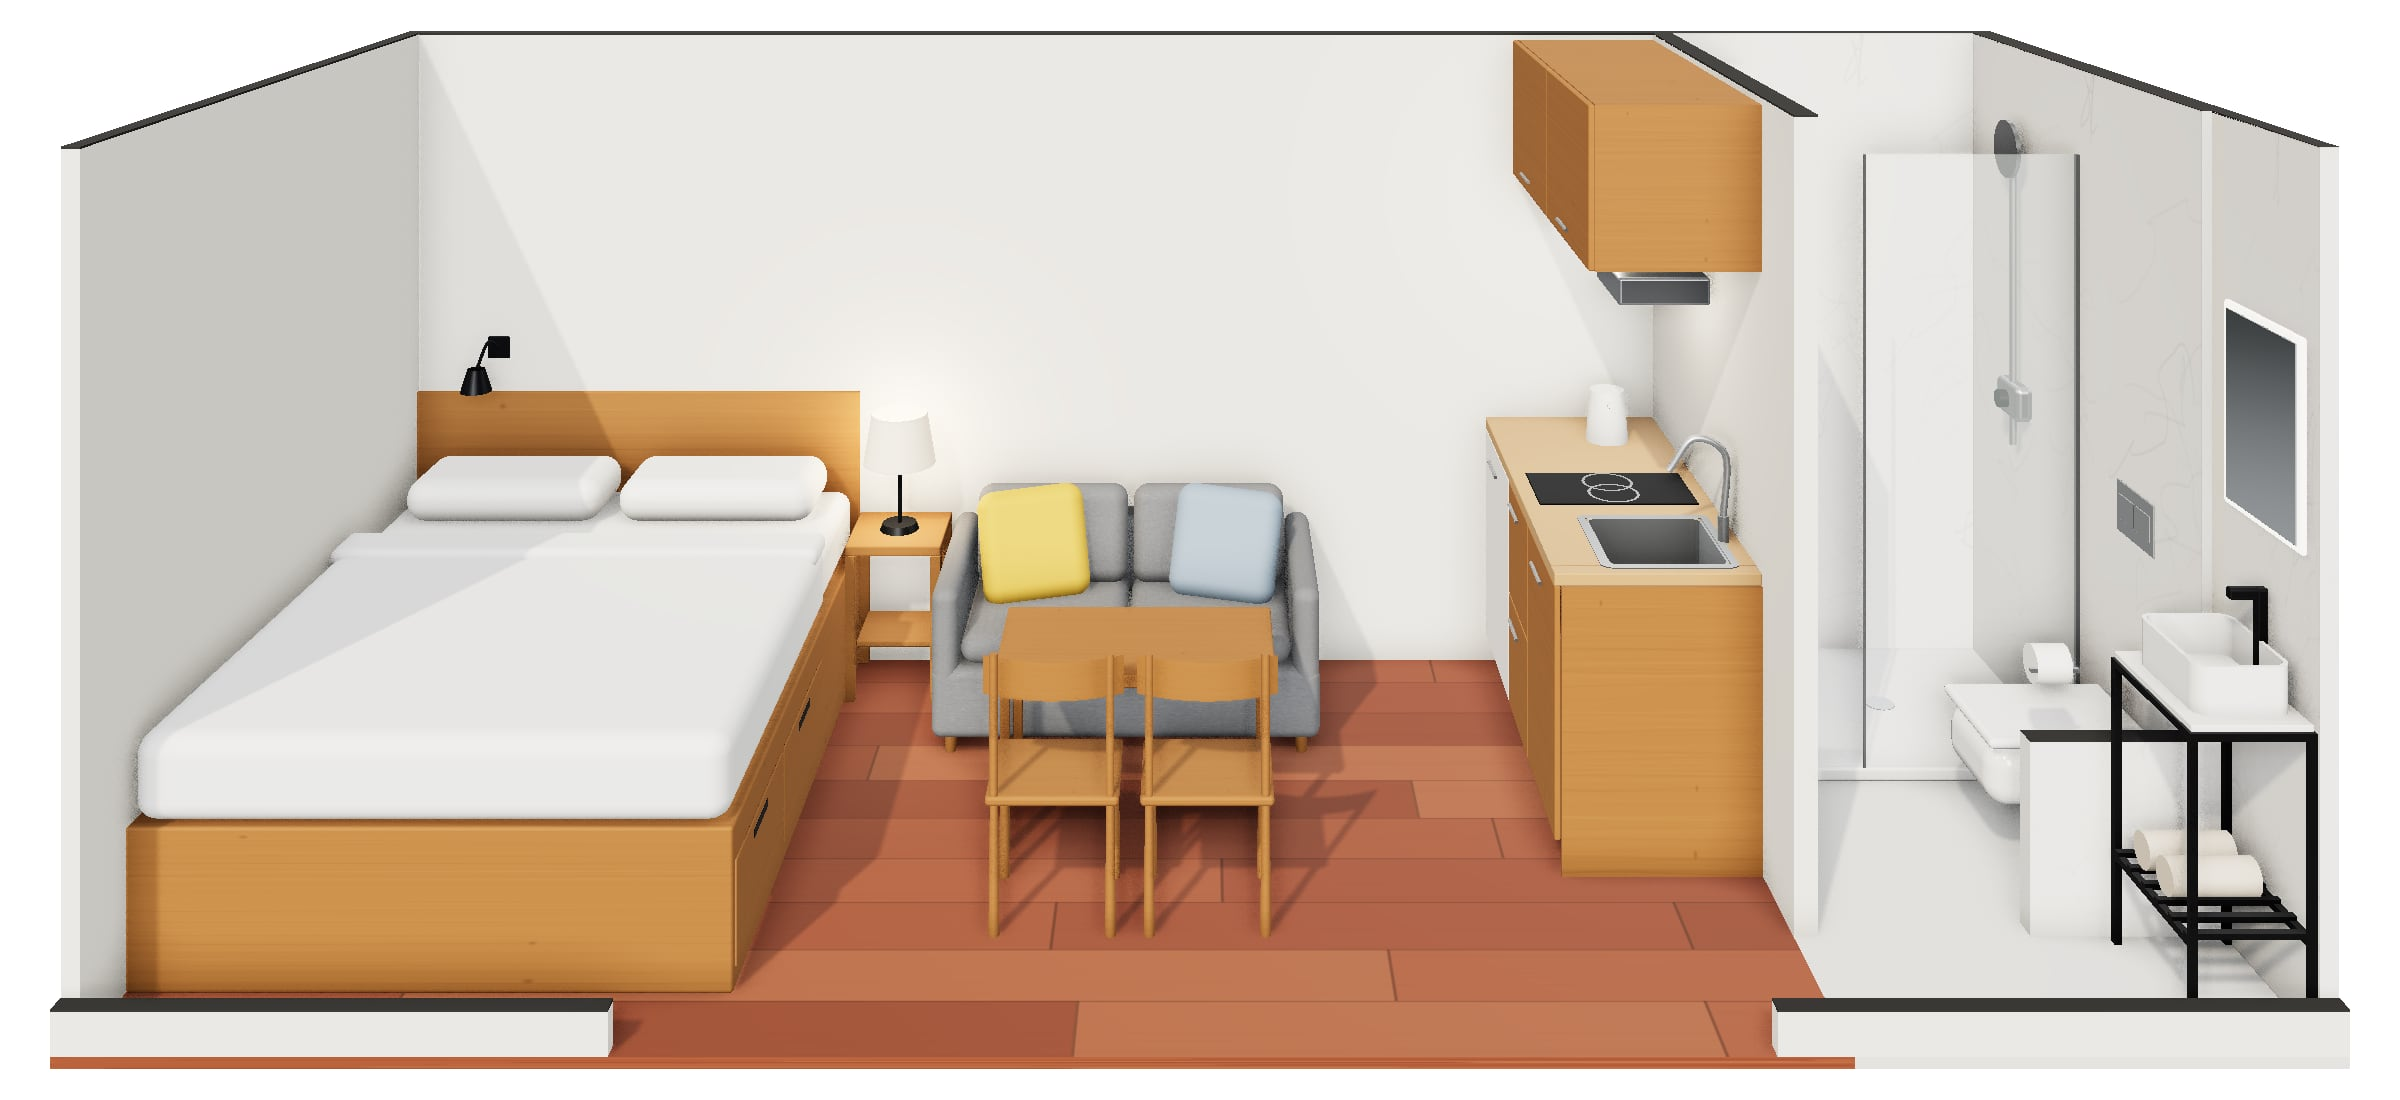
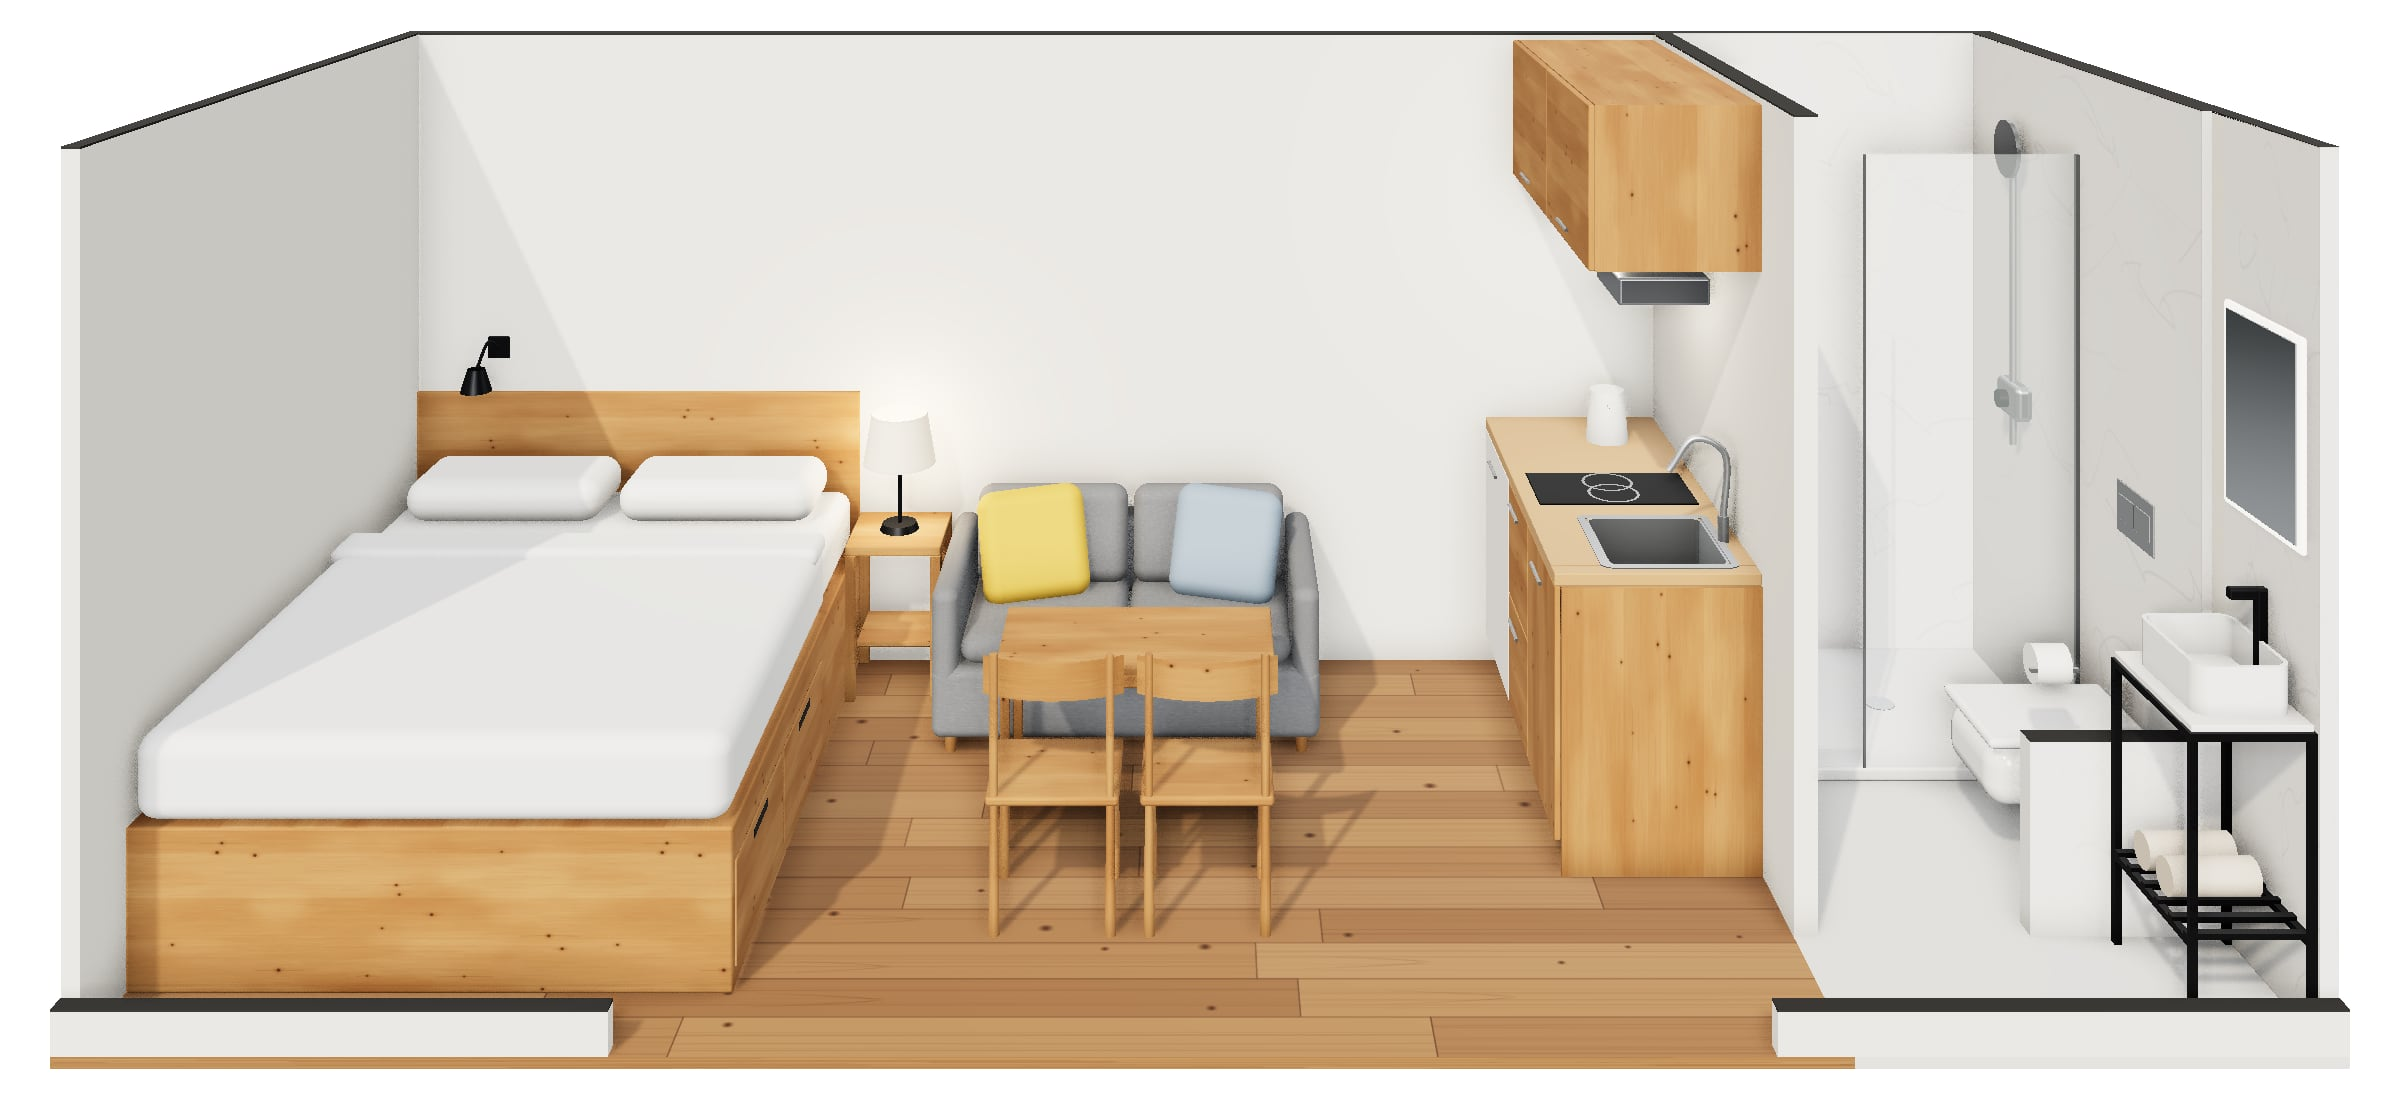
feat(studio): medium-oak pine furniture and rustic oak floor
The founder gave two references: a bed in a Medium Oak finish for the
furniture wood, and a rustic natural oak plank photo for the floor.

The pine texture is now golden amber under a soft waxed patina, with
fine brushed grain and small pin knots (few faint specks, after the
earlier "fewer holes" note). Wood now maps at true scale (1.2 x 0.6 m
per tile) with the grain along each piece's length, so a knot is the
same size on the bed side and on a chair leg, and each piece is cut
from a different part of the board.

The floor planks are random-length oak boards of varied tone, shaded
so the lit floor matches the photo (render 185,140,95 vs photo
186,139,98; furniture 213,165,102 vs bed 215,162,103).

Each procedural texture now draws its own random sequence, so editing
one never reshuffles another. Kit, price and design-doc wording follow:
a medium-oak stain over pine, an SPC floor in a rustic natural oak decor.

Claude-Session: https://claude.ai/code/session_01KRyNxX68L5feJKbJnBKRyV

diff --git a/scripts/studio/render/room.html b/scripts/studio/render/room.html
@@ -62,6 +62,7 @@ scene.background = LINE ? new THREE.Color("#ffffff") : new THREE.Color(12, 12, 1
 // ------------------------------------------------------------ procedural textures (real mode)
 function tex(draw, w = 512, h = 512) {
   const c = document.createElement("canvas"); c.width = w; c.height = h
+  seed = 7 // each texture draws its own fresh sequence, so editing one never reshuffles another
   draw(c.getContext("2d"), w, h)
   const t = new THREE.CanvasTexture(c)
   t.colorSpace = THREE.SRGBColorSpace
@@ -108,43 +109,101 @@ const T = LINE ? {} : {
       g.stroke()
     }
   }),
-  // pine in a darker honey tone: calm, faint grain and only a few soft knots (the founder's
-  // reference wood, ~/Downloads/IMG_3235.jpg, toned down)
+  // pine under a medium-oak finish, after the founder's bed reference (~/farm/ikea/coleridge-bed-frame-
+  // with-footboard-product-medium-oak-2.jpg.webp): golden amber, a soft waxed patina, fine brushed grain,
+  // small pin knots. One tile is 1.2 x 0.6 m of board with the grain along u (see woodUV); a mark that
+  // crosses an edge is drawn again on the far side, so the tile repeats without a seam
   pine: tex((g, w, h) => {
-    g.fillStyle = "#a06a34"; g.fillRect(0, 0, w, h)
-    for (let i = 0; i < 70; i++) {
-      const y = rnd() * h, dark = rnd() > 0.5
-      g.strokeStyle = dark ? `rgba(110,68,28,${0.04 + rnd() * 0.07})` : `rgba(200,150,90,${0.04 + rnd() * 0.06})`
-      g.lineWidth = 1 + rnd() * 3
-      g.beginPath(); g.moveTo(0, y)
-      g.bezierCurveTo(w * 0.33, y + (rnd() - 0.5) * 18, w * 0.66, y + (rnd() - 0.5) * 18, w, y + (rnd() - 0.5) * 8)
-      g.stroke()
+    const wrap = (x, y, rx, ry, f) => {
+      for (const dx of [-w, 0, w]) for (const dy of [-h, 0, h]) {
+        if (x + dx + rx < 0 || x + dx - rx > w || y + dy + ry < 0 || y + dy - ry > h) continue
+        f(x + dx, y + dy)
+      }
     }
-    for (let k = 0; k < 3; k++) {
-      const x = rnd() * w, y = rnd() * h, rx = 5 + rnd() * 6
-      const grd = g.createRadialGradient(x, y, 0, x, y, rx * 1.4)
-      grd.addColorStop(0, "rgba(90,54,22,0.35)"); grd.addColorStop(1, "rgba(90,54,22,0)")
-      g.fillStyle = grd; g.beginPath(); g.ellipse(x, y, rx * 1.4, rx * 0.8, 0, 0, Math.PI * 2); g.fill()
+    g.fillStyle = "#ae7a48"; g.fillRect(0, 0, w, h)
+    const staves = 5, sh = h / staves // the boards of an edge-glued panel, each a shade apart
+    for (let s = 0; s < staves; s++) {
+      g.fillStyle = rnd() > 0.5 ? `rgba(232,186,122,${0.05 + rnd() * 0.1})` : `rgba(138,84,38,${0.04 + rnd() * 0.08})`
+      g.fillRect(0, s * sh, w, sh)
+    }
+    g.filter = "blur(12px)" // waxed patina: soft clouds drawn out along the grain
+    for (let i = 0; i < 70; i++) {
+      const x = rnd() * w, y = rnd() * h, rx = 50 + rnd() * 170, ry = 8 + rnd() * 24
+      g.fillStyle = rnd() > 0.45 ? `rgba(146,88,38,${0.07 + rnd() * 0.12})` : `rgba(238,196,132,${0.07 + rnd() * 0.12})`
+      wrap(x, y, rx + 30, ry + 30, (X, Y) => { g.beginPath(); g.ellipse(X, Y, rx, ry, 0, 0, Math.PI * 2); g.fill() })
+    }
+    g.filter = "none"
+    for (let i = 0; i < 2600; i++) { // fine brushed fibres
+      const x = rnd() * w, y = rnd() * h, len = 20 + rnd() * 110, dy = (rnd() - 0.5) * 1.5
+      g.strokeStyle = rnd() > 0.35 ? `rgba(116,70,30,${0.04 + rnd() * 0.08})` : `rgba(244,206,148,${0.04 + rnd() * 0.07})`
+      g.lineWidth = 0.6 + rnd() * 0.7
+      wrap(x + len / 2, y, len / 2 + 2, 3, (X, Y) => {
+        g.beginPath(); g.moveTo(X - len / 2, Y); g.lineTo(X + len / 2, Y + dy); g.stroke()
+      })
+    }
+    for (let i = 0; i < 22; i++) { // long grain lines, level at both ends so they meet across the seam
+      const y = rnd() * h, a = (rnd() - 0.5) * 14, b = (rnd() - 0.5) * 14
+      g.strokeStyle = `rgba(126,76,32,${0.06 + rnd() * 0.1})`; g.lineWidth = 0.8 + rnd() * 1.4
+      wrap(w / 2, y, w / 2, 12, (X, Y) => {
+        g.beginPath(); g.moveTo(X - w / 2, Y); g.bezierCurveTo(X - w / 6, Y + a, X + w / 6, Y + b, X + w / 2, Y); g.stroke()
+      })
+    }
+    for (let k = 0; k < 16; k++) { // pin knots: an amber halo, sometimes a short spike along the grain, a dark core
+      const x = rnd() * w, y = rnd() * h, r = 1.6 + rnd() * 2.4, spike = rnd() > 0.55 ? 20 + rnd() * 50 : 0
+      wrap(x, y, Math.max(r * 5, spike) + 2, r * 3 + 2, (X, Y) => {
+        g.save(); g.translate(X, Y); g.scale(1, 0.58)
+        const halo = g.createRadialGradient(0, 0, 0, 0, 0, r * 4.5)
+        halo.addColorStop(0, "rgba(120,70,28,0.45)"); halo.addColorStop(1, "rgba(120,70,28,0)")
+        g.fillStyle = halo; g.beginPath(); g.arc(0, 0, r * 4.5, 0, Math.PI * 2); g.fill()
+        g.restore()
+        if (spike) {
+          g.strokeStyle = "rgba(92,52,20,0.32)"; g.lineWidth = 1.2
+          g.beginPath(); g.moveTo(X - spike, Y + 1); g.quadraticCurveTo(X, Y - 1, X + spike, Y + 1); g.stroke()
+        }
+        g.fillStyle = "rgba(68,36,14,0.9)"; g.beginPath(); g.ellipse(X, Y, r * 1.2, r, 0, 0, Math.PI * 2); g.fill()
+      })
+    }
+    for (let i = 0; i < 50; i++) { // a few distress specks, kept faint (the founder asked for fewer holes)
+      g.fillStyle = `rgba(90,52,22,${0.1 + rnd() * 0.15})`; g.fillRect(rnd() * w, rnd() * h, 1 + rnd() * 1.5, 1)
     }
   }, 1024, 512),
-  // SPC floor planks
+  // rustic natural oak planks after the founder's floor reference (~/farm/ikea/images.jpeg): warm honey-tan
+  // boards of varied tone and random length, fine joints, long grain with arches, a few small knots
   planks: tex((g, w, h) => {
-    const tones = ["#8c4b30", "#7f4229", "#975739", "#86462d", "#914f33"] // natural red hardwood
-    const rows = 10, rh = h / rows
+    const tones = ["#b98b5b", "#c39663", "#a97c4f", "#bd9264", "#ae8255", "#c79b6a", "#b38556"]
+    const rows = 14, rh = h / rows
     for (let r = 0; r < rows; r++) {
-      let x = -((r * 173) % 400)
+      let x = -((r * 211) % 700)
       while (x < w) {
-        const len = 360 + ((r * 97 + Math.abs(x)) % 240)
-        g.fillStyle = tones[(r * 7 + Math.abs(x)) % tones.length]; g.fillRect(x, r * rh, len, rh)
-        for (let k = 0; k < 6; k++) {
-          g.fillStyle = "rgba(90,60,30,0.06)"; g.fillRect(x, r * rh + rnd() * rh, len, 1)
+        const len = 520 + Math.floor(rnd() * 520), y0 = r * rh
+        g.fillStyle = tones[Math.floor(rnd() * tones.length)]; g.fillRect(x, y0, len, rh)
+        for (let i = 0; i < 9; i++) { // long grain
+          const y = y0 + rnd() * rh
+          g.strokeStyle = `rgba(110,72,38,${0.08 + rnd() * 0.14})`; g.lineWidth = 0.7 + rnd() * 1.4
+          g.beginPath(); g.moveTo(x, y)
+          g.bezierCurveTo(x + len * 0.3, y + (rnd() - 0.5) * 6, x + len * 0.7, y + (rnd() - 0.5) * 6, x + len, y + (rnd() - 0.5) * 4)
+          g.stroke()
         }
-        g.fillStyle = "rgba(60,40,20,0.45)"; g.fillRect(x, r * rh, 2, rh)
+        if (rnd() > 0.35) { // grain arches
+          const cx = x + len * (0.25 + rnd() * 0.5), cy = y0 + rh * (0.3 + rnd() * 0.4)
+          for (let k = 1; k <= 4; k++) {
+            g.strokeStyle = `rgba(104,66,34,${0.10 + rnd() * 0.12})`; g.lineWidth = 0.9
+            g.beginPath(); g.moveTo(cx - 40 * k, cy - 3 * k)
+            g.quadraticCurveTo(cx + 30 * k, cy, cx - 40 * k, cy + 3 * k + 2); g.stroke()
+          }
+        }
+        for (let k = 0; k < (rnd() > 0.6 ? 2 : rnd() > 0.5 ? 1 : 0); k++) { // small knots
+          const kx = x + 30 + rnd() * (len - 60), ky = y0 + 6 + rnd() * (rh - 12), kr = 2 + rnd() * 3.5
+          const grd = g.createRadialGradient(kx, ky, 0, kx, ky, kr * 2.4)
+          grd.addColorStop(0, "rgba(58,34,16,0.95)"); grd.addColorStop(0.45, "rgba(90,56,26,0.55)"); grd.addColorStop(1, "rgba(120,80,40,0)")
+          g.fillStyle = grd; g.beginPath(); g.ellipse(kx, ky, kr * 2.4, kr * 1.4, 0, 0, Math.PI * 2); g.fill()
+        }
+        g.fillStyle = "rgba(70,44,22,0.55)"; g.fillRect(x, y0, 2, rh) // end joint
         x += len
       }
-      g.fillStyle = "rgba(60,40,20,0.4)"; g.fillRect(0, r * rh, w, 2)
+      g.fillStyle = "rgba(70,44,22,0.5)"; g.fillRect(0, r * rh, w, 2) // long joint
     }
-  }, 1024, 1024),
+  }, 2048, 1024),
 }
 
 // ------------------------------------------------------------ materials
@@ -160,7 +219,7 @@ function mat(name) {
     const std = (o) => new THREE.MeshStandardMaterial(o)
     x = {
       wall: () => std({ color: "#f0ece3", roughness: 0.88 }), // off-white painted linings
-      pine: () => std({ map: T.pine, roughness: 0.62 }), // golden knotty pine joinery, matte
+      pine: () => std({ map: T.pine, roughness: 0.62 }), // pine joinery in medium oak, satin
       white: () => std({ color: "#f3f2ee", roughness: 0.55 }),
       ply: () => std({ map: T.ply, roughness: 0.6 }),
       worktop: () => std({ color: "#c4996a", roughness: 0.45 }),
@@ -172,7 +231,7 @@ function mat(name) {
       blue: () => std({ color: "#8ea2b4", roughness: 0.9 }),
       marble: () => std({ map: T.marble, roughness: 0.22 }),
       vinyl: () => std({ color: "#dcdcda", roughness: 0.6 }),
-      floor: () => std({ map: T.planks, roughness: 0.55 }),
+      floor: () => std({ map: T.planks, color: "#d1c8c1", roughness: 0.55 }), // a slight warm shade so the lit floor matches the oak reference
       ceramic: () => new THREE.MeshPhysicalMaterial({ color: "#fbfbfa", roughness: 0.12, clearcoat: 0.7, clearcoatRoughness: 0.1 }),
       black: () => std({ color: "#1f2023", roughness: 0.45, metalness: 0.5 }),
       hob: () => std({ color: "#0f1012", roughness: 0.12, metalness: 0.2 }),
@@ -197,7 +256,27 @@ function mat(name) {
 
 // ------------------------------------------------------------ geometry helpers (metres)
 const meshes = []
+// wood at true scale: each face projects the board texture from its own plane, grain along the piece's
+// longest side (on an end face, along the longer edge), each piece cut from a different part of the board
+const BOARD = [1.2, 0.6] // metres one pine tile covers along and across the grain
+function woodUV(geo) {
+  geo.computeBoundingBox()
+  const size = geo.boundingBox.getSize(new THREE.Vector3()).toArray()
+  const long = size.indexOf(Math.max(...size))
+  const pos = geo.attributes.position, nrm = geo.attributes.normal, uv = geo.attributes.uv
+  const du = (meshes.length * 0.618034) % 1, dv = (meshes.length * 0.414214) % 1
+  for (let i = 0; i < pos.count; i++) {
+    const n = [Math.abs(nrm.getX(i)), Math.abs(nrm.getY(i)), Math.abs(nrm.getZ(i))]
+    const plane = [0, 1, 2].filter((a) => a !== n.indexOf(Math.max(...n)))
+    const ua = plane.includes(long) ? long : size[plane[0]] >= size[plane[1]] ? plane[0] : plane[1]
+    const va = plane.find((a) => a !== ua)
+    const p = [pos.getX(i), pos.getY(i), pos.getZ(i)]
+    uv.setXY(i, du + p[ua] / BOARD[0], dv + p[va] / BOARD[1])
+  }
+  uv.needsUpdate = true
+}
 function add(geo, name, opts = {}) {
+  if (!LINE && name === "pine") woodUV(geo)
   const mesh = new THREE.Mesh(geo, mat(name))
   mesh.castShadow = !LINE && name !== "glass" && name !== "floor" && name !== "vinyl" && !opts.noShadow
   mesh.receiveShadow = !LINE

diff --git a/scripts/studio/kits.py b/scripts/studio/kits.py
@@ -145,7 +145,7 @@ def k1_lining(lo: Layout) -> Kit:
                  "pufoam"))
     k.buy(Bought("K1-EPOXY", "Primer + 100%-solids epoxy floor seal", "K1", "finishes", "painting", 14, "m2",
                  "epoxy"))
-    k.buy(Bought("K1-SPC", "SPC flooring 5 mm, natural red-wood decor, + underlay (living area)", "K1", "finishes", "carpentry",
+    k.buy(Bought("K1-SPC", "SPC flooring 5 mm, rustic natural oak decor, + underlay (living area)", "K1", "finishes", "carpentry",
                  round(lo.part_x0 * lo.W / 1e6 * 1.08, 1), "m2", "spc", Box(0, 0, -5, lo.part_x0, lo.W, 0),
                  step="S05", layer="envelope", color="floor"))
     k.buy(Bought("K1-RUST", "Rust converter + zinc primer for steel", "K1", "finishes", "painting", 4, "L", "primer"))
@@ -457,7 +457,7 @@ def k7_trims(lo: Layout) -> Kit:
                Box(X - 530, 0, 2300, X - 518, run, lo.H), step="S18"))
     k.add(Part("K7-20", "Galley end panel (scribed to the floor on site)", "K7", "PLY12",
                Box(X - GALLEY_D, run, 0, X, run + 12, 900 - 38), step="S18"))
-    k.buy(Bought("K7-STAIN", "Joinery finish: honey-tone stain + clear matte PU varnish over pine (all furniture)", "K7",
+    k.buy(Bought("K7-STAIN", "Joinery finish: medium-oak stain + clear matte PU varnish over pine (all furniture)", "K7",
                  "finishes", "painting", 6, "L", "stain", step="S18"))
     k.steps.append(Step("S18", "K7", "Scribe and pin the trims; caulk and paint", [p.id for p in k.parts],
                         {"F": 60}, 1))

diff --git a/scripts/studio/prices.py b/scripts/studio/prices.py
@@ -64,7 +64,7 @@ PRICES: dict[str, tuple[float, str, str, str]] = {
     "sofa": (450_000, "A", "AS-21", "compact two-seat sofa, washable covers"),
     "wcframe": (220_000, "A", "AS-21", "slim concealed cistern frame + dual-flush plate"),
     "lamp": (35_000, "A", "AS-21", "table lamp with linen shade, LED bulb"),
-    "stain": (14_000, "A", "AS-21", "honey-tone stain + clear matte PU varnish for pine, per L"),
+    "stain": (14_000, "A", "AS-21", "medium-oak stain + clear matte PU varnish for pine, per L"),
     "stairframe": (450_000, "A", "AS-21", "stringers, handrails, footings"),
 }
 

diff --git a/study/studio/studio-design.md b/study/studio/studio-design.md
@@ -49,9 +49,9 @@ The 3D drawing and the realistic image on the studio page are rendered from the 
 | Surface | Finish | Why |
 |---|---|---|
 | Walls and ceiling (living) | 12 mm ply, vapour-retarding primer and off-white paint | Light and calm; the primer seals the insulation from room air; repaintable |
-| Floor (living) | Epoxy seal over the treated container floor, then 5 mm SPC in a natural red-wood decor | The original floor is insecticide-treated; never sand it [V STU-07] |
+| Floor (living) | Epoxy seal over the treated container floor, then 5 mm SPC in a rustic natural oak decor (narrow random-length planks) | The original floor is insecticide-treated; never sand it [V STU-07] |
 | Bathroom walls | Cement board, liquid membrane, ceramic tiles | Fully waterproof; easy to clean between guests |
 | Bathroom floor | Safety vinyl coved 100 mm up the walls, low-profile tray | No joints at the floor; the tray keeps IP zone 1 small [V STU-38] |
-| Furniture | Pine in a darker honey tone: 18 mm pine-faced ply or solid pine, a honey-tone stain under clear matte PU varnish, calm grain with few knots, ABS edges; marine ply in the bathroom | The founder's reference finish; Kigali carpenters work pine every day; warm against off-white walls and the natural red floor |
+| Furniture | Pine in medium oak, after the founder's bed reference: 18 mm pine-faced ply or solid pine, a medium-oak stain under clear matte PU varnish; golden amber with a soft patina, fine grain and small pin knots, ABS edges; marine ply in the bathroom | The founder's reference finish; Kigali carpenters work pine every day; warm against off-white walls and the oak floor |
 | Worktop | 38 mm laminate or hardwood | Field check (AS-24) |
 | Outside | Existing paint kept; steelwork for the roof painted to match | Founder did not ask for a repaint |
